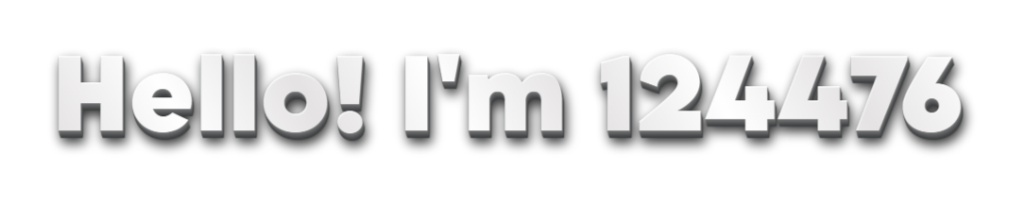
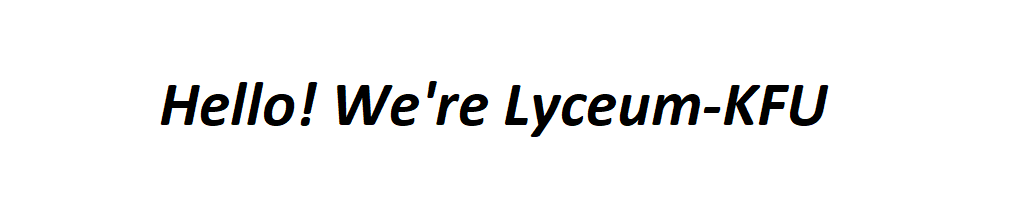
REfresh web

Changed region(s): [[0.0312, 0.2647, 0.9688, 0.7353]]

diff --git a/index.html b/index.html
@@ -38,7 +38,7 @@
 <footer class="d-flex flex-wrap justify-content-between align-items-center py-3 my-4 border-top">
   <div class="col-md-4 d-flex align-items-center">
     <div class="container">
-      <span class="text-muted">&copy; 124476</span>
+      <span class="text-muted">&copy; Lyceum-KFU</span>
       <b>2024</b>
     </div>
   </div>
